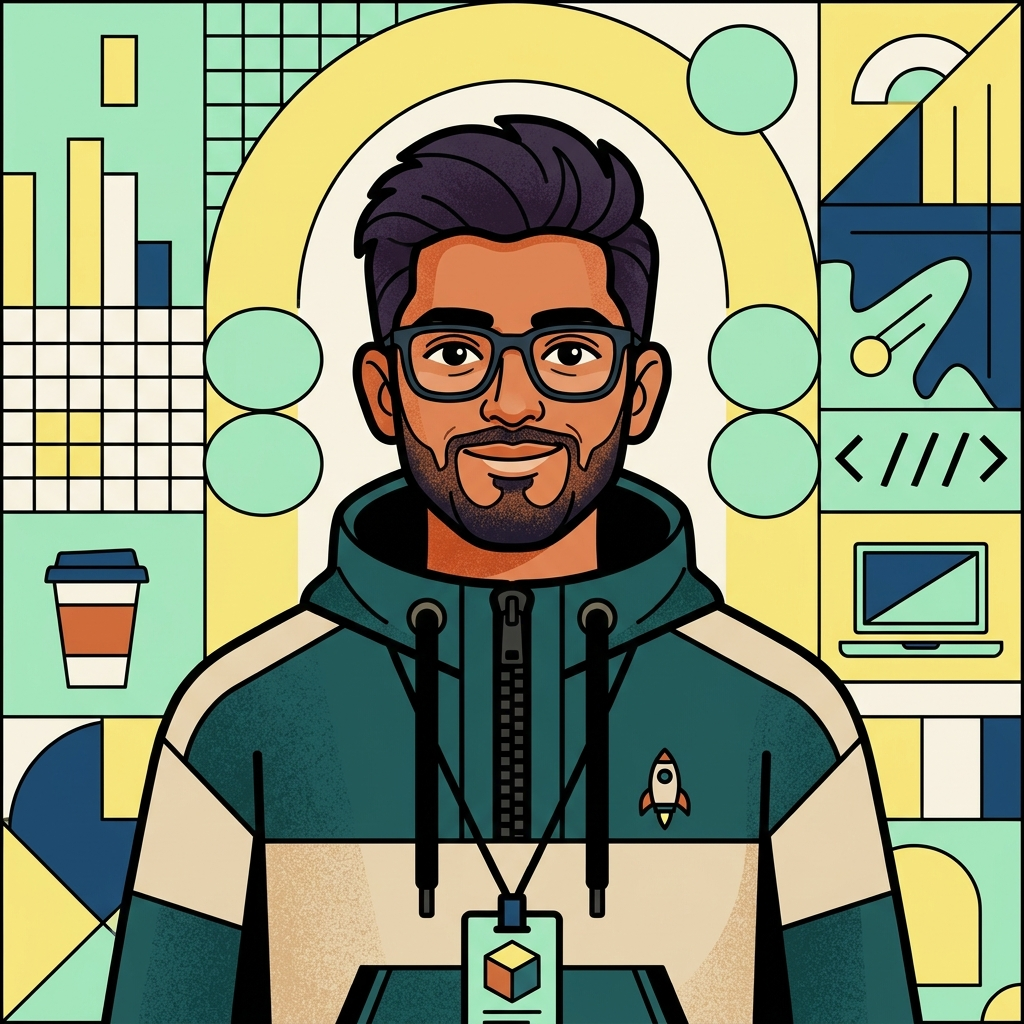
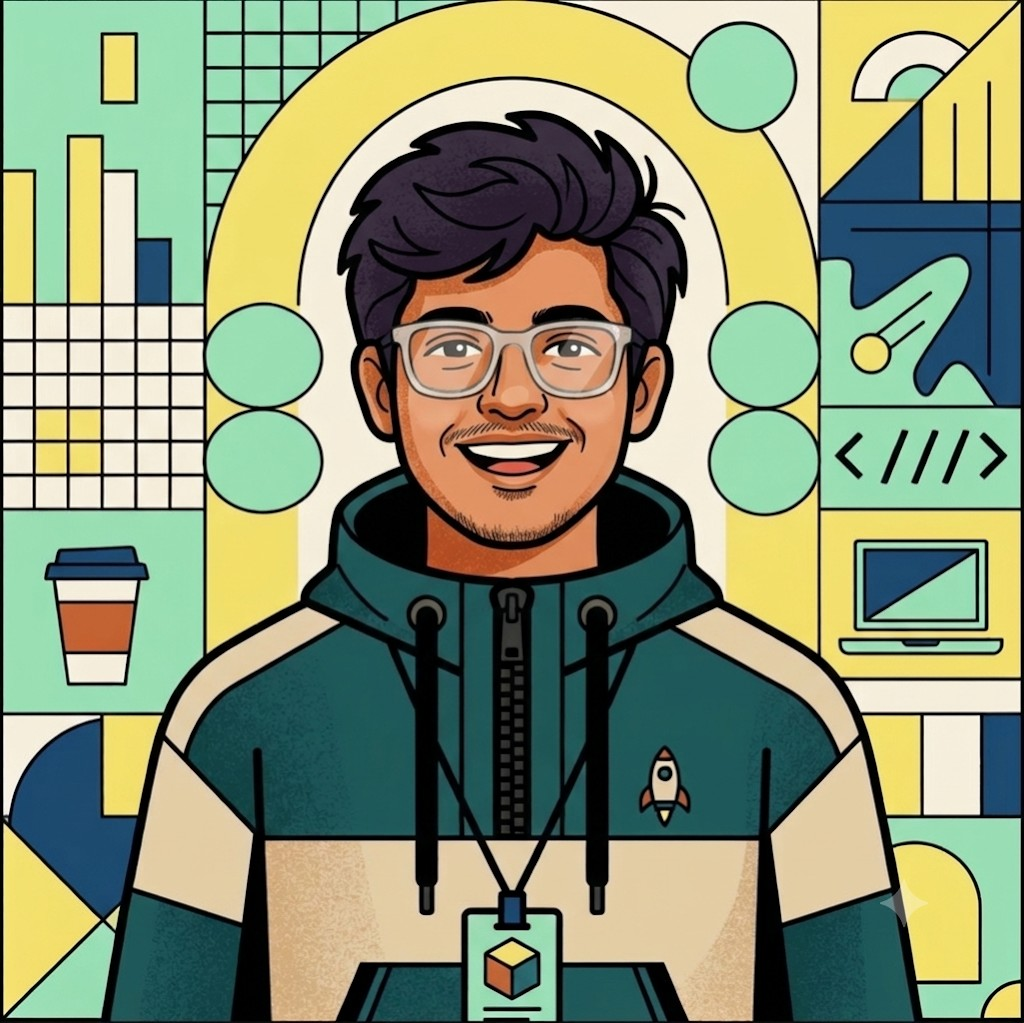
profileupdated

diff --git a/about.html b/about.html
@@ -152,6 +152,18 @@
                 <span>DOSSIER // SAHIL GITE</span>
               </div>
 
+              <!-- Real Photo ID Header -->
+              <div style="display:flex; align-items:center; gap:16px; margin-bottom:20px; padding:14px; background:var(--bg-primary); border:var(--border-width) solid var(--border-color); box-shadow:3px 3px 0px var(--border-color);">
+                <div style="width:72px; height:72px; border:2px solid var(--border-color); overflow:hidden; flex-shrink:0; background:var(--accent-yellow-light);">
+                  <img src="assets/images/sahil_avatar.jpg" alt="Sahil Gite Portrait" width="72" height="72" style="width:100%; height:100%; object-fit:cover;">
+                </div>
+                <div>
+                  <div style="font-family:var(--font-display); font-weight:800; font-size:1.15rem; line-height:1.2;">Sahil Gite</div>
+                  <div style="font-family:var(--font-mono); font-size:0.75rem; color:var(--ink-secondary); margin-top:2px;">FULL STACK &amp; CLOUD DEV</div>
+                  <div style="display:inline-block; margin-top:6px; background:var(--accent-mint); font-family:var(--font-mono); font-size:0.68rem; font-weight:800; padding:2px 6px; border:1px solid #121316;">VERIFIED // KKWIEER</div>
+                </div>
+              </div>
+
               <div style="display:flex; flex-direction:column; gap:14px; font-family:var(--font-mono); font-size:0.88rem;">
                 <div style="display:flex; justify-content:space-between; border-bottom:1px solid #DDD; padding-bottom:8px;">
                   <span style="color:var(--ink-secondary);">NAME:</span>

diff --git a/contact.html b/contact.html
@@ -161,6 +161,19 @@
 
           <!-- Right Column: Direct Quick Connect Cards -->
           <div class="contact-quick-cards">
+
+            <!-- Sahil Profile Card -->
+            <div class="quick-connect-card" style="background:var(--accent-yellow-light); border-left:6px solid var(--accent-yellow); padding:16px 20px;">
+              <div style="display:flex; align-items:center; gap:16px;">
+                <div style="width:64px; height:64px; border:2px solid var(--border-color); overflow:hidden; border-radius:50%; flex-shrink:0; background:var(--bg-primary); box-shadow:2px 2px 0px var(--border-color);">
+                  <img src="assets/images/sahil_avatar.jpg" alt="Sahil Gite" width="64" height="64" style="width:100%; height:100%; object-fit:cover;">
+                </div>
+                <div>
+                  <h4 style="font-family:var(--font-display); font-weight:800; font-size:1.05rem; margin:0;">SAHIL GITE</h4>
+                  <p style="margin:2px 0 0 0; font-size:0.82rem; color:var(--ink-secondary);">Open for Full-Time Roles, Internships &amp; Collabs</p>
+                </div>
+              </div>
+            </div>
             
             <!-- Direct Email -->
             <div class="quick-connect-card">

diff --git a/index.html b/index.html
@@ -162,7 +162,7 @@
                 <span>SAHIL_AVATAR.SYS [VER 2.6]</span>
               </div>
               <div class="avatar-image-wrap">
-                <img src="assets/images/sahil_avatar.jpg" alt="Cute Neo-Brutalist Portrait of Sahil Gite" width="600" height="600" loading="eager">
+                <img src="assets/images/sahil_avatar.jpg" alt="Official Neo-Brutalist Portrait of Sahil Gite" width="600" height="600" loading="eager">
               </div>
               <div class="avatar-footer-meta">
                 <div>
